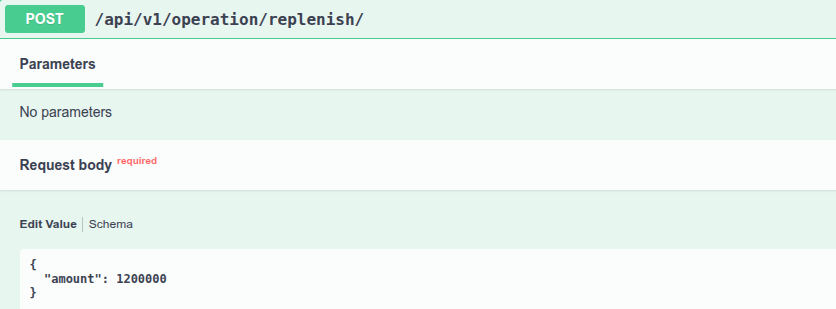
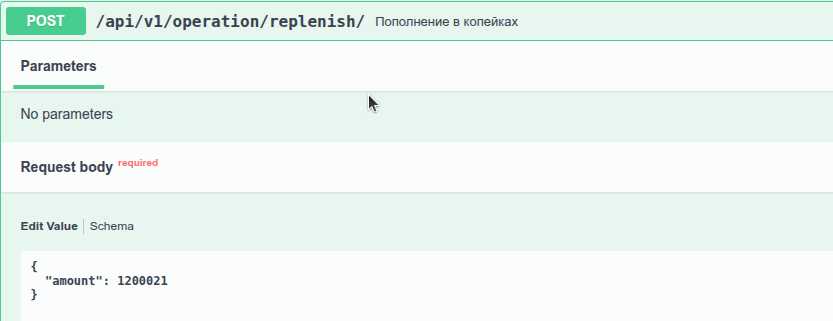
Docker upload support addition; amendments re database queries optimization; readme.md update

diff --git a/app/models/operation.py b/app/models/operation.py
@@ -6,16 +6,19 @@ from django.db import models
 
 
 class Operation(models.Model):
+    REPLENISHMENT = 1
+    TRANSFER = 2
+
     OPERATION_TYPES = [
-        ('replenishment', 'Пополнение'),
-        ('transfer', 'Перевод'),
+        (REPLENISHMENT, 'Пополнение'),
+        (TRANSFER, 'Перевод'),
     ]
 
-    sender = models.ForeignKey(User, verbose_name='Отправитель', on_delete=models.CASCADE, 
+    sender = models.ForeignKey(User, verbose_name='Отправитель', on_delete=models.CASCADE,
                                related_name='sender_operations')
     receiver = models.ForeignKey(User, verbose_name='Получатель', null=True, blank=True, on_delete=models.SET_NULL,
                                 related_name='receiver_operations')
-    type = models.CharField(max_length=20, choices=OPERATION_TYPES)
+    type = models.IntegerField(choices=OPERATION_TYPES)
     amount = models.DecimalField(verbose_name='Сумма', decimal_places=2, max_digits=20, default=0,
                                  validators=[MinValueValidator(Decimal('0.01'))])
     timestamp = models.DateTimeField(auto_now_add=True)

diff --git a/app/services/transfer.py b/app/services/transfer.py
@@ -7,7 +7,7 @@ from app.models import Account, Operation
 
 @transaction.atomic
 def transfer(sender_id: int, receiver_id: int, amount: Decimal) -> Operation:
-    if amount <= 0:
+    if amount <= Decimal('0'):
         raise ValueError('Сумма перевода должна быть больше 0')
 
     if sender_id == receiver_id:
@@ -16,19 +16,19 @@ def transfer(sender_id: int, receiver_id: int, amount: Decimal) -> Operation:
     sender = Account.objects.select_for_update().get(user_id=sender_id)
     receiver = Account.objects.select_for_update().get(user_id=receiver_id)
 
-    if sender.balance < int(amount):
+    if sender.balance < amount:
         raise ValueError('Недостаточно средств')
 
-    sender.balance -= int(amount)
-    receiver.balance += int(amount)
+    sender.balance -= amount
+    receiver.balance += amount
 
     sender.save()
     receiver.save()
 
     return Operation.objects.create(
         sender_id=sender_id,
-        type='transfer',
-        amount=int(amount),
+        type=Operation.TRANSFER,
+        amount=amount,
         receiver_id=receiver_id,
         resulting_balance = sender.balance
     )

diff --git a/app/tests/services.py b/app/tests/services.py
@@ -1,5 +1,8 @@
-import pytest
 from decimal import Decimal
+
+import pytest
+
+from app.models import Operation
 from app.services.replenishment import replenishment
 from app.services.transfer import transfer
 
@@ -13,7 +16,7 @@ class TestAccountOperations:
 
         user1.user_account.refresh_from_db()
         assert user1.user_account.balance == old_balance + Decimal('25.00')
-        assert op.type == 'replenishment'
+        assert op.type == Operation.REPLENISHMENT
         assert op.amount == Decimal('25.00')
         assert op.resulting_balance == user1.user_account.balance
         assert op.sender == user1
@@ -55,7 +58,7 @@ class TestAccountOperations:
         # Проверяем
         assert user1.user_account.balance == sender_balance - Decimal('30.00')
         assert user2.user_account.balance == receiver_balance + Decimal('30.00')
-        assert op.type == 'transfer'
+        assert op.type == Operation.TRANSFER
         assert op.amount == Decimal('30.00')
         assert op.resulting_balance == user1.user_account.balance
         assert op.sender == user1

diff --git a/app/tests/api.py b/app/tests/api.py
@@ -4,6 +4,8 @@ from django.urls import reverse
 from rest_framework.authtoken.models import Token
 from rest_framework.test import APIClient
 
+from app.models import Operation
+
 User = get_user_model()
 
 @pytest.mark.django_db
@@ -36,7 +38,7 @@ class TestAccountAPI:
         response = self.client.post(url, data)
         assert response.status_code == 200
         assert response.data['amount'] == '0.50'
-        assert response.data['type'] == 'replenishment'
+        assert response.data['type'] == Operation.REPLENISHMENT
 
     def test_replenish_invalid_amount(self):
         url = reverse('operation-replenish')
@@ -56,7 +58,7 @@ class TestAccountAPI:
         response = self.client.post(url, data)
         assert response.status_code == 200
         assert response.data['amount'] == '30.00'
-        assert response.data['type'] == 'transfer'
+        assert response.data['type'] == Operation.TRANSFER
         assert response.data['sender'] == self.user1.id
         assert response.data['receiver'] == self.user2.id
 

diff --git a/app/migrations/0003_operation_operation_type_alter_account_user.py b/app/migrations/0003_operation_operation_type_alter_account_user.py
@@ -1,0 +1,27 @@
+# Generated by Django 5.2.4 on 2025-08-02 23:30
+
+import django.db.models.deletion
+from django.conf import settings
+from django.db import migrations, models
+
+
+class Migration(migrations.Migration):
+
+    dependencies = [
+        ('app', '0002_operation_resulting_balance'),
+        migrations.swappable_dependency(settings.AUTH_USER_MODEL),
+    ]
+
+    operations = [
+        migrations.AddField(
+            model_name='operation',
+            name='operation_type',
+            field=models.IntegerField(choices=[(1, 'Пополнение'), (2, 'Перевод')], default=1),
+            preserve_default=False,
+        ),
+        migrations.AlterField(
+            model_name='account',
+            name='user',
+            field=models.OneToOneField(on_delete=django.db.models.deletion.PROTECT, related_name='user_account', to=settings.AUTH_USER_MODEL, verbose_name='Держатель счета'),
+        ),
+    ]

diff --git a/app/views/operation.py b/app/views/operation.py
@@ -14,9 +14,14 @@ from app.services.transfer import transfer
 
 
 class OperationViewSet(viewsets.ModelViewSet):
-    queryset = Operation.objects.all()
     serializer_class = OperationSerializer
     permission_classes = [permissions.IsAuthenticated]
+
+    def get_queryset(self):
+        user = self.request.user
+        return Operation.objects.filter(
+            Q(sender=user) | Q(receiver=user)
+        ).order_by('-timestamp')
 
     @extend_schema(
         summary='Мои операции',
@@ -34,6 +39,7 @@ class OperationViewSet(viewsets.ModelViewSet):
 
 
     @extend_schema(
+        summary='Пополнение в копейках',
         request=ReplenishmentSerializer,
         responses=OperationSerializer
     )

diff --git a/app/models/account.py b/app/models/account.py
@@ -6,10 +6,10 @@ from django.db import models
 
 
 class Account(models.Model):
-    user = models.OneToOneField(User, verbose_name='Держатель счета', on_delete=models.CASCADE,
+    user = models.OneToOneField(User, verbose_name='Держатель счета', on_delete=models.PROTECT,
                                 related_name='user_account')
     balance = models.DecimalField(verbose_name='Баланс счета', decimal_places=2, max_digits=20, default=0,
-                                  validators=[MinValueValidator(Decimal('0.01'))])
+                                  validators=[MinValueValidator(Decimal('0.00'))])
 
     def __str__(self):
         return f'{self.user.username}: {self.balance} руб.'

diff --git a/app/services/replenishment.py b/app/services/replenishment.py
@@ -7,7 +7,7 @@ from app.models import Account, Operation
 
 @transaction.atomic
 def replenishment(user_id: int, amount: Decimal) -> Operation:
-    if amount <= 0:
+    if amount <= Decimal('0'):
         raise ValueError('Сумма пополнения должна быть больше 0')
 
     # amount в копейках → переводим в рубли
@@ -20,7 +20,7 @@ def replenishment(user_id: int, amount: Decimal) -> Operation:
     return Operation.objects.create(
         sender_id=user_id,
         receiver_id=user_id,
-        type='replenishment',
+        type=Operation.REPLENISHMENT,
         amount=amount_rub,  # сохраняем в рублях
         resulting_balance=account.balance
     )

diff --git a/MoneyTransfer/settings.py b/MoneyTransfer/settings.py
@@ -98,12 +98,12 @@ WSGI_APPLICATION = 'MoneyTransfer.wsgi.application'
 
 DATABASES = {
     'default': {
-        'ENGINE': env('DB_ENGINE'),
-        'NAME': env('POSTGRES_DB'),
-        'USER': env('POSTGRES_USER'),
-        'PASSWORD': env('POSTGRES_PASSWORD'),
-        'HOST': env('DB_HOST'),
-        'PORT': env('DB_PORT'),
+        'ENGINE': 'django.db.backends.postgresql',
+        'NAME': os.getenv('POSTGRES_DB', 'money_transfer'),
+        'USER': os.getenv('POSTGRES_USER', 'user'),
+        'PASSWORD': os.getenv('POSTGRES_PASSWORD', 'pass'),
+        'HOST': os.getenv('DB_HOST', 'db'),
+        'PORT': '5432',
     }
 }
 

diff --git a/app/migrations/0006_alter_account_balance.py b/app/migrations/0006_alter_account_balance.py
@@ -1,0 +1,20 @@
+# Generated by Django 5.2.4 on 2025-08-03 12:48
+
+import django.core.validators
+from decimal import Decimal
+from django.db import migrations, models
+
+
+class Migration(migrations.Migration):
+
+    dependencies = [
+        ('app', '0005_rename_operation_type_operation_type'),
+    ]
+
+    operations = [
+        migrations.AlterField(
+            model_name='account',
+            name='balance',
+            field=models.DecimalField(decimal_places=2, default=0, max_digits=20, validators=[django.core.validators.MinValueValidator(Decimal('0.00'))], verbose_name='Баланс счета'),
+        ),
+    ]

diff --git a/app/serializers/operation.py b/app/serializers/operation.py
@@ -4,7 +4,12 @@ from app.models import Operation
 
 
 class OperationSerializer(serializers.ModelSerializer):
+    type_display = serializers.CharField(source='get_type_display', read_only=True)
+
     class Meta:
         model = Operation
-        fields = ['sender', 'receiver', 'type', 'amount', 'timestamp', 'resulting_balance']
+        fields = ['sender', 'receiver', 'type', 'type_display', 'amount', 'timestamp', 'resulting_balance']
         read_only_fields = ['sender', 'receiver', 'type', 'timestamp']
+
+    def get_type_display(self, obj):
+        return obj.get_type_display()

diff --git a/app/serializers/replenishment_transfer.py b/app/serializers/replenishment_transfer.py
@@ -1,9 +1,13 @@
+from decimal import Decimal
+
 from rest_framework import serializers
 
 
 class ReplenishmentSerializer(serializers.Serializer):
+    # Принимаем в копейках: 1 = 0.01 рубля
     amount = serializers.IntegerField(min_value=1)
 
 class TransferSerializer(serializers.Serializer):
-    amount = serializers.IntegerField(min_value=1)
+    # Переводим в рублях: 0.01 = 1 копейка
+    amount = serializers.DecimalField(max_digits=20, decimal_places=2, min_value=Decimal('0.01'))
     receiver_id = serializers.IntegerField()
